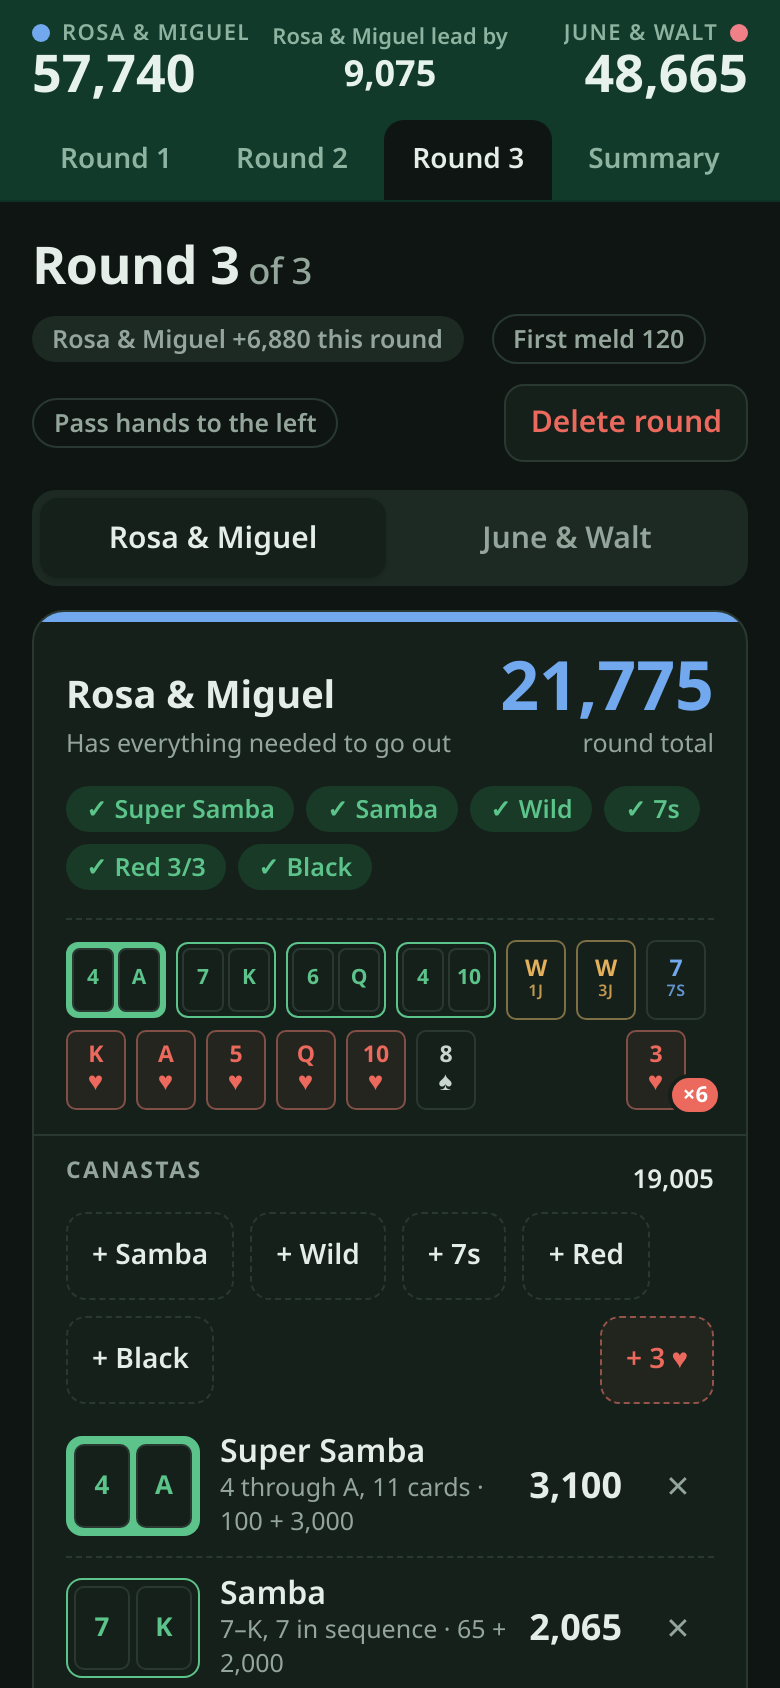
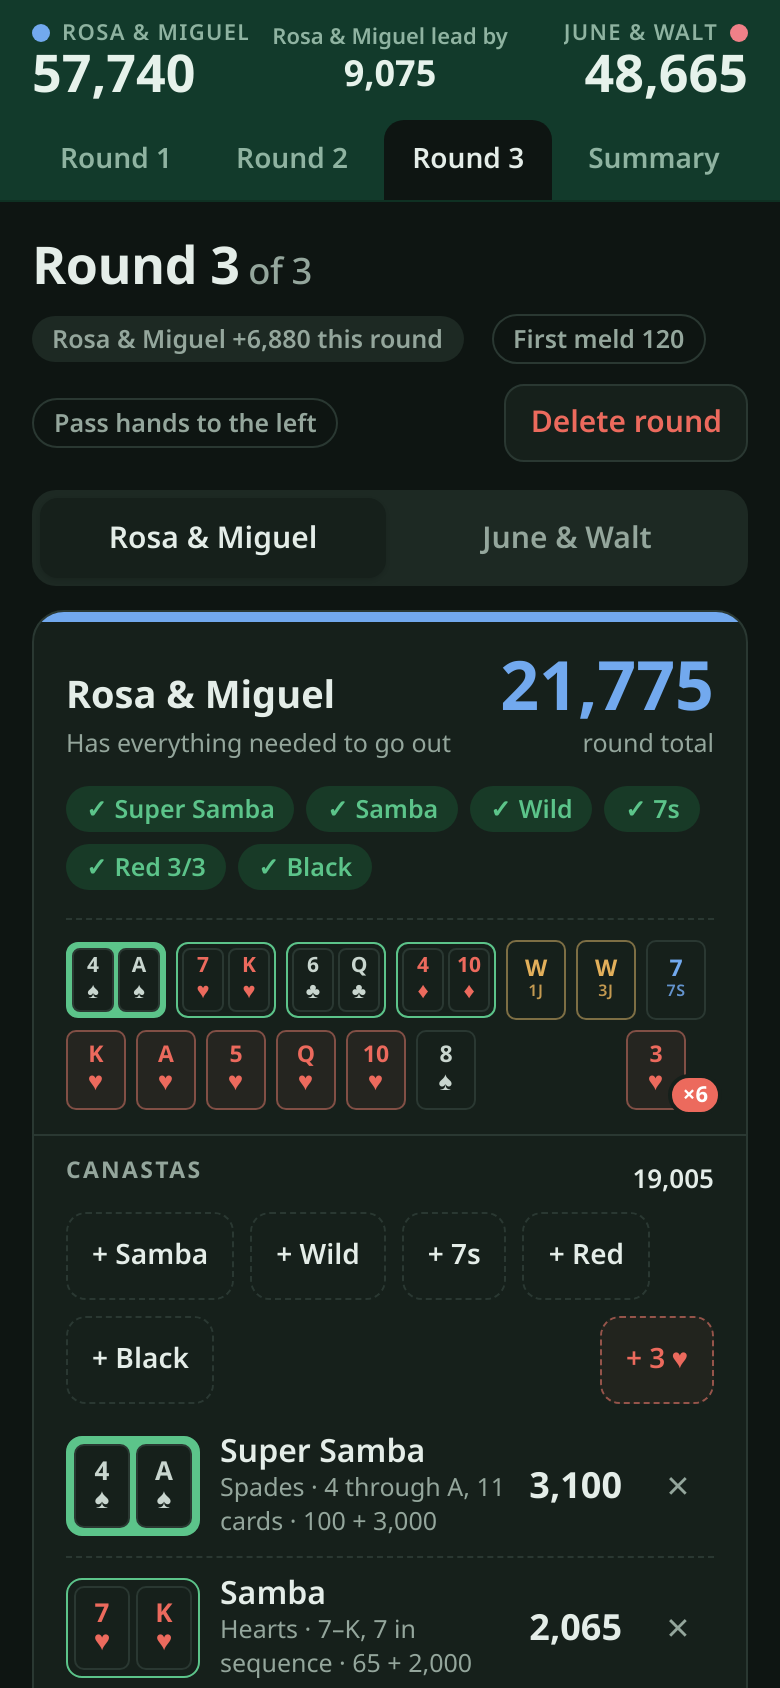
Example game: give every Samba and Super Samba a suit
Scoring is unchanged (57,740 / 48,665). Screenshots regenerated.

diff --git a/index.html b/index.html
@@ -429,17 +429,17 @@ const playedCount=g=>g.rounds.filter(hasData).length;
 function startTab(g){let i=0;g.rounds.forEach((rd,k)=>{if(hasData(rd))i=k});return i}
 
 function sampleGame(){
-  const S=r=>({type:'samba',range:r,suit:''}),W=j=>({type:'wild',jokers:j}),SV=()=>({type:'sevens'}),RD=r=>({type:'red',rank:r}),BK=(r,t,j)=>({type:'black',rank:r,twos:t,jokers:j});
+  const S=(r,suit)=>({type:'samba',range:r,suit}),W=j=>({type:'wild',jokers:j}),SV=()=>({type:'sevens'}),RD=r=>({type:'red',rank:r}),BK=(r,t,j)=>({type:'black',rank:r,twos:t,jokers:j});
   const T=(canastas,red3,table,out)=>({canastas,red3,draw30:0,out:!!out,table});
   const g=newGame([['Rosa','Miguel'],['June','Walt']]);
   g.created=Date.now()-86400000; g.sample=true;
   g.rounds=[
-    {teams:[T([S('4-A'),S('8-A'),S('8-A'),S('8-A'),W(3),W(2),SV(),RD('10'),RD('K'),RD('J'),RD('J'),RD('4'),RD('5'),RD('A'),BK('5',1,0)],7,130),
-            T([S('4-A'),S('8-A'),S('8-A'),S('8-A'),W(3),W(4),SV(),SV(),RD('A'),RD('6'),RD('J'),RD('Q'),RD('K'),BK('5',0,1),BK('8',3,0),BK('6',2,0)],7,90)]},
-    {teams:[T([S('4-A'),S('8-A'),W(3),SV(),RD('10'),RD('6'),RD('5'),RD('6'),BK('A',0,1),BK('J',1,0)],3,220,true),
-            T([S('4-A'),S('8-A'),S('8-A'),W(2),SV(),RD('A')],4,15)]},
-    {teams:[T([S('4-A'),S('7-K'),S('6-Q'),S('4-10'),W(1),W(3),SV(),RD('K'),RD('A'),RD('5'),RD('Q'),RD('10'),BK('8',0,1)],6,170,true),
-            T([S('4-A'),S('8-A'),S('8-A'),W(1),W(4),RD('6'),RD('4'),RD('5'),RD('A'),BK('Q',1,0)],4,180)]}
+    {teams:[T([S('4-A','H'),S('8-A','S'),S('8-A','D'),S('8-A','C'),W(3),W(2),SV(),RD('10'),RD('K'),RD('J'),RD('J'),RD('4'),RD('5'),RD('A'),BK('5',1,0)],7,130),
+            T([S('4-A','S'),S('8-A','H'),S('8-A','C'),S('8-A','D'),W(3),W(4),SV(),SV(),RD('A'),RD('6'),RD('J'),RD('Q'),RD('K'),BK('5',0,1),BK('8',3,0),BK('6',2,0)],7,90)]},
+    {teams:[T([S('4-A','D'),S('8-A','S'),W(3),SV(),RD('10'),RD('6'),RD('5'),RD('6'),BK('A',0,1),BK('J',1,0)],3,220,true),
+            T([S('4-A','C'),S('8-A','H'),S('8-A','D'),W(2),SV(),RD('A')],4,15)]},
+    {teams:[T([S('4-A','S'),S('7-K','H'),S('6-Q','C'),S('4-10','D'),W(1),W(3),SV(),RD('K'),RD('A'),RD('5'),RD('Q'),RD('10'),BK('8',0,1)],6,170,true),
+            T([S('4-A','H'),S('8-A','S'),S('8-A','C'),W(1),W(4),RD('6'),RD('4'),RD('5'),RD('A'),BK('Q',1,0)],4,180)]}
   ];
   return g;
 }

diff --git a/sw.js b/sw.js
@@ -1,5 +1,5 @@
 // Caches the app so it opens with no internet connection.
-const CACHE='supersamba-v22';
+const CACHE='supersamba-v23';
 const FILES=['./','index.html','manifest.webmanifest','icon-180.png','icon-192.png','icon-512.png'];
 self.addEventListener('install',e=>{e.waitUntil(caches.open(CACHE).then(c=>c.addAll(FILES)));self.skipWaiting()});
 self.addEventListener('activate',e=>{e.waitUntil(caches.keys().then(ks=>Promise.all(ks.filter(k=>k!==CACHE).map(k=>caches.delete(k)))));self.clients.claim()});
